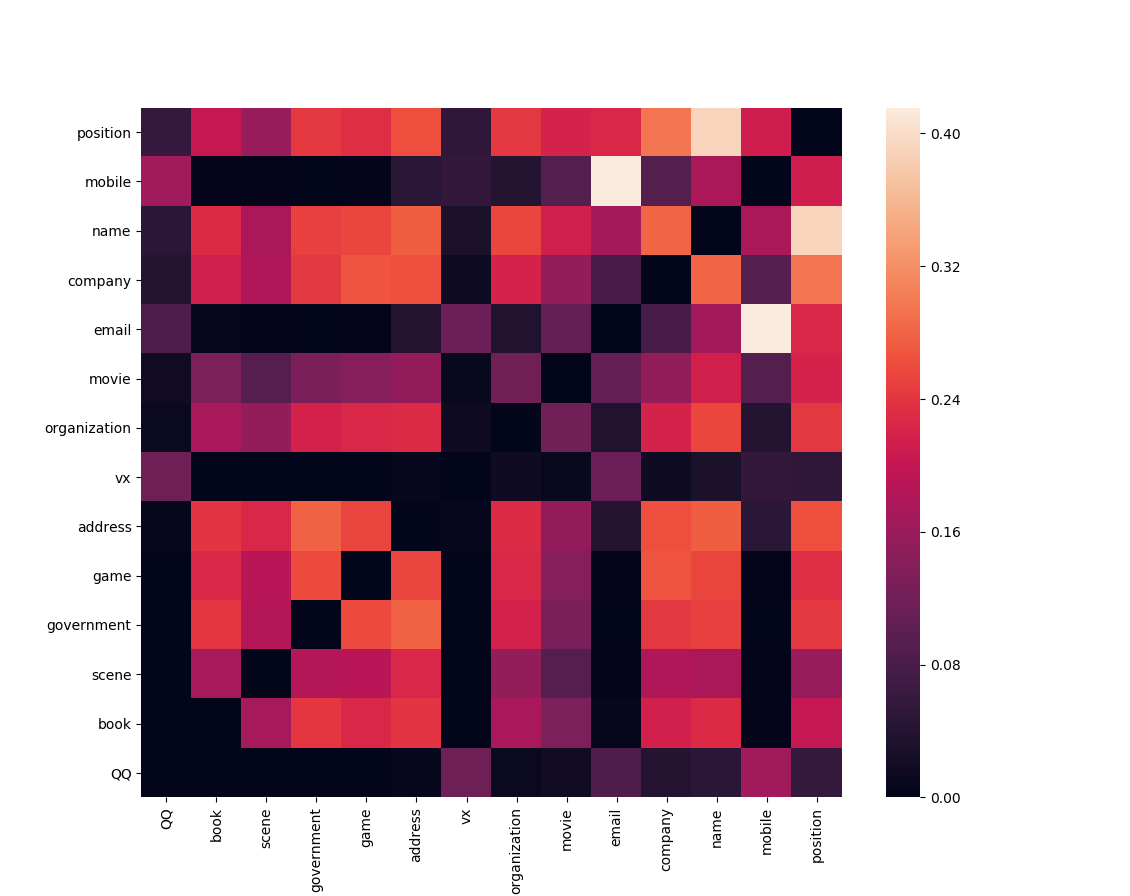
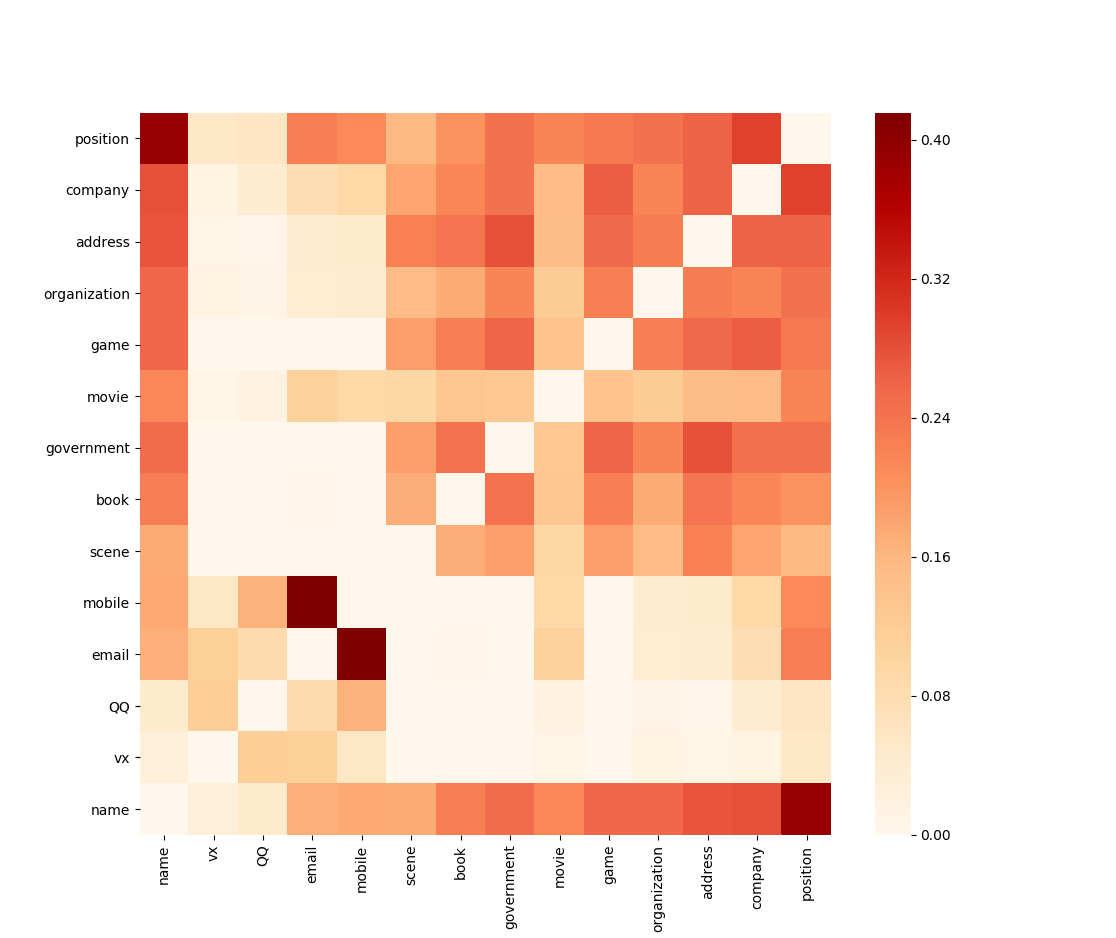
update images

diff --git a/estimator/Estimator.py b/estimator/Estimator.py
@@ -15,7 +15,7 @@ class Estimators:
         self.labels=set()
         self.startPrintStatus()
         for i in range(len(self.fileset)):
-            df=pd.read_csv('./label/'+self.fileset[i]+'.csv')
+            df=pd.read_csv('../data/CCF/raw/train//label/'+self.fileset[i]+'.csv')
             self.labels|=set(df.Category.values)
             self.continuePrintStatus(i)
         self.endPrintStatus()
@@ -35,7 +35,7 @@ class Estimators:
                 self.coinCount[label][label0]=0
         self.startPrintStatus()
         for i in range(len(self.fileset)):
-            df=pd.read_csv('./label/'+self.fileset[i]+'.csv')
+            df=pd.read_csv('../data/CCF/raw/train//label/'+self.fileset[i]+'.csv')
             if True in set(df.Privacy.value_counts()>1):
                 self.potentialNoise.append(self.fileset[i])
                 continue
@@ -51,7 +51,7 @@ class Estimators:
                 for k in range(j+1,len(uni)):
                     self.coinCount[uni[j]][uni[k]]+=1
                     self.coinCount[uni[k]][uni[j]]+=1
-            with open('./data/'+self.fileset[i]+'.txt','r',encoding='utf8') as f:
+            with open('../data/CCF/raw/train//data/'+self.fileset[i]+'.txt','r',encoding='utf8') as f:
                 l=0
                 for j in f.readlines():
                     l+=len(j)
@@ -84,17 +84,18 @@ class Estimators:
         第三种计算二者出现向量的余弦相似度
         '''
         df=pd.DataFrame(self.coinCount)
-        _4sort=df.index.tolist()
+        #_4sort=df.index.tolist()
+        _4sort=['name','position','vx','QQ','email','mobile','movie','book','scene','game','government','address','organization','company']
         df.sort_values(by=_4sort,axis=1,inplace=True)
         df.sort_values(by=_4sort,axis=0,ascending=False,inplace=True)
         df=df.astype('float64')
         plt.figure()
-        sns.heatmap(data=df)
+        sns.heatmap(data=df,cmap='OrRd')
         for label0 in _4sort:
             for label1 in _4sort:
                 df[label0][label1]=df[label0][label1]/((len(self.entityLength4Label[label0])*len(self.entityLength4Label[label1]))**0.5)
         plt.figure()
-        sns.heatmap(data=df)
+        sns.heatmap(data=df,cmap='OrRd')
         sqrtL2=dict()
         for label in _4sort:
             sqrtL2[label]=sum(self.appearance[label])**0.5
@@ -107,14 +108,14 @@ class Estimators:
                     mulsum+=self.appearance[label0][i]*self.appearance[label1][i]
                 temp[label0][label1]=mulsum/sqrtL2[label0]/sqrtL2[label1]
         df=pd.DataFrame(temp)
-        df.sort_values(by=_4sort,axis=1,inplace=True,ascending=False)
-        df.sort_values(by=_4sort,axis=0,inplace=True)
+        df.sort_values(by=_4sort,axis=1,inplace=True)
+        df.sort_values(by=_4sort,axis=0,inplace=True,ascending=False)
         plt.figure()
-        sns.heatmap(data=df)
+        sns.heatmap(data=df,cmap='OrRd')
         for label in _4sort:
             df[label][label]=0
         plt.figure()
-        sns.heatmap(data=df)
+        sns.heatmap(data=df,cmap='OrRd')
         
     def showLabelDistribution(self):
         '''
@@ -152,5 +153,5 @@ if __name__=='__main__':
     es=Estimators(fileset)
     es.calculate()
     es.showSimilarity()
-    #es.showLabelDistribution()
-    #es.showFileLength()
+    es.showLabelDistribution()
+    es.showFileLength()
